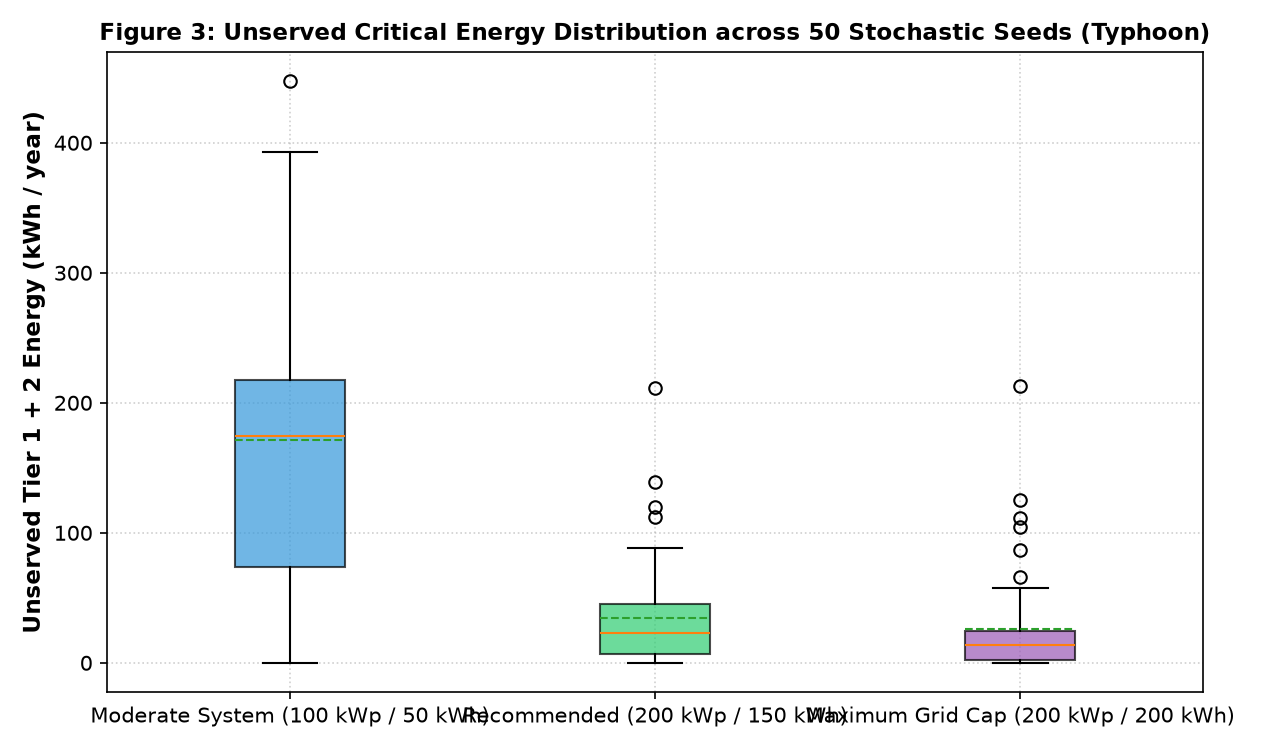
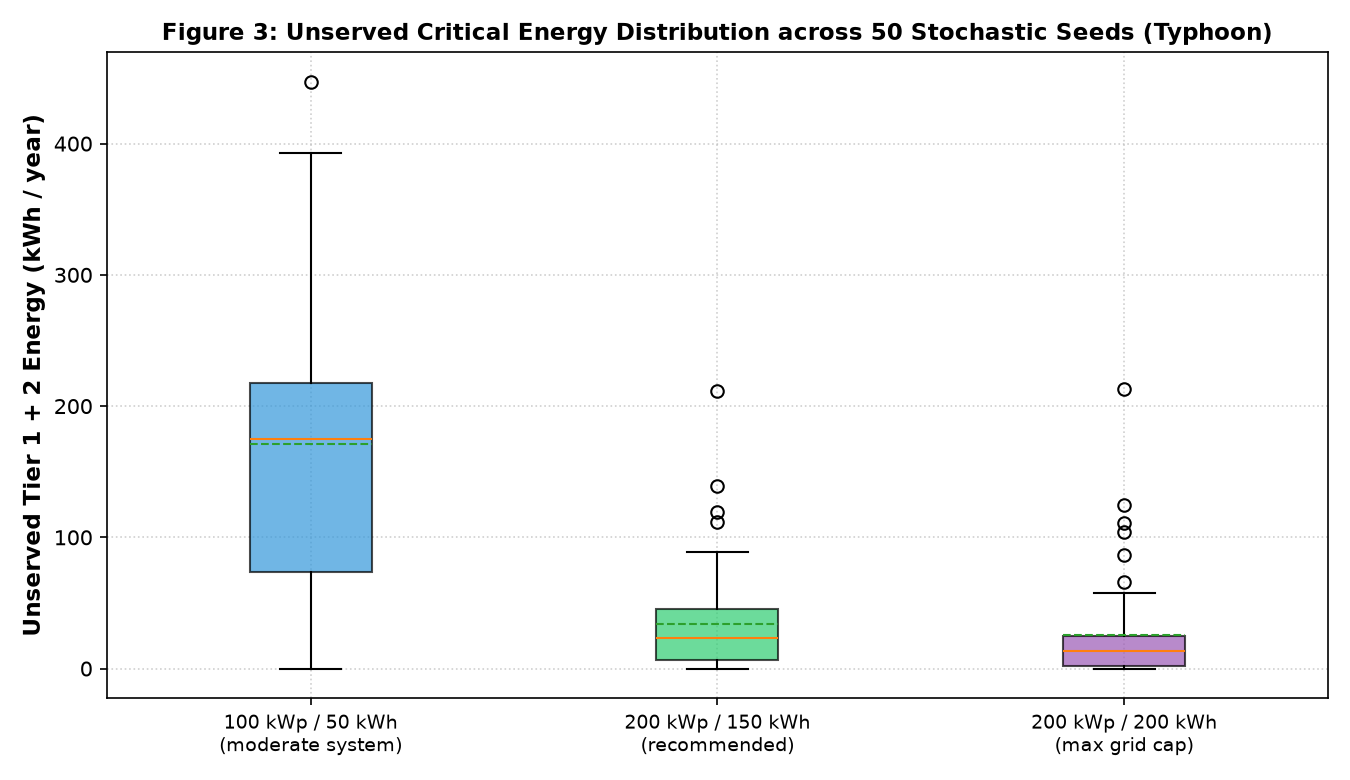
docs([DOC-004]): readable Figure 3, correct §5.2 CLI row, test-file count
Two-line x labels and a wider figure for Figure 3, regenerated from the
same 600 runs; no data change. Record cli.py as top-level in §5.2.
State the test count as 22 test modules plus tests/__init__.py in the
report and the listing generator, and regenerate both listings.

diff --git a/scripts/build_program_listing.py b/scripts/build_program_listing.py
@@ -141,7 +141,8 @@ def build_full(files: list[str], tests: list[str], index, counts) -> str:
             "script after any source change.",
             "",
             f"Source files: **{len(files)}** ({src_lines:,} lines). "
-            f"Test files are listed by index only: **{len(tests)}** ({test_lines:,} lines).",
+            f"Test modules are listed by index only: **{len(tests)}** "
+            f"(plus `tests/__init__.py`), {test_lines:,} lines.",
         ],
     )
     lines.extend(render_index_table(files, index, counts, "Contents"))
@@ -168,7 +169,8 @@ def build_core(files: list[str], tests: list[str], index, counts) -> str:
             "the integration engine, and the AHP/Pareto sizing pipeline.",
             "",
             f"Reproduced here: **{len(core)}** files ({core_lines:,} lines). "
-            f"Indexed only: **{len(rest_src)}** remaining source files and **{len(tests)}** test files.",
+            f"Indexed only: **{len(rest_src)}** remaining source files and **{len(tests)}** "
+            f"test modules (plus `tests/__init__.py`).",
         ],
     )
     lines.extend(render_index_table(core, index, counts, "Core modules included"))

diff --git a/src/ccis_sim/decision/plots.py b/src/ccis_sim/decision/plots.py
@@ -176,9 +176,9 @@ def plot_unserved_distribution(
 
     rec_sol, rec_bat = recommended_pair
     triplet = [
-        (100.0, 50.0, "Moderate System (100 kWp / 50 kWh)"),
-        (rec_sol, rec_bat, f"Recommended ({rec_sol:.0f} kWp / {rec_bat:.0f} kWh)"),
-        (200.0, 200.0, "Maximum Grid Cap (200 kWp / 200 kWh)"),
+        (100.0, 50.0, "100 kWp / 50 kWh\n(moderate system)"),
+        (rec_sol, rec_bat, f"{rec_sol:.0f} kWp / {rec_bat:.0f} kWh\n(recommended)"),
+        (200.0, 200.0, "200 kWp / 200 kWh\n(max grid cap)"),
     ]
 
     data_to_plot = []
@@ -192,7 +192,7 @@ def plot_unserved_distribution(
             data_to_plot.append(np.array([0.0]))
             labels.append(name)
 
-    fig, ax = plt.subplots(figsize=(8.5, 5), dpi=150)
+    fig, ax = plt.subplots(figsize=(9.0, 5.2), dpi=150)
     box = ax.boxplot(
         data_to_plot,
         tick_labels=labels,
@@ -200,7 +200,7 @@ def plot_unserved_distribution(
         showmeans=True,
         meanline=True,
     )
-
+    ax.tick_params(axis="x", labelsize=9)
     colors = ["#3498db", "#2ecc71", "#9b59b6"]
     for patch, color in zip(box["boxes"], colors):
         patch.set_facecolor(color)

diff --git a/docs/paper/CCIS-engineering-report.md b/docs/paper/CCIS-engineering-report.md
@@ -163,11 +163,12 @@ Python 3.14 with NumPy, pandas and SciPy: transparent, scriptable, easy to test.
 | `solar/` | Irradiance transposition, NOCT thermal derating, array scaling and inverter clipping |
 | `battery/` | Dispatch dynamics, reserve floors, idle losses |
 | `outage/` | Outage sampler with typhoon coupling, tiered shedding, unserved-energy tracker |
-| `integration/` | Engine, CLI, exporters, Monte Carlo scenario runner |
+| `integration/` | Engine, exporters, Monte Carlo scenario runner |
 | `validation/` | Audit, plausibility, sensitivity, hypothesis tests |
 | `decision/` | AHP, Pareto frontier, sizing rule, figures |
+| `cli.py` (top level, beside the packages) | Command-line entry point (`ccis-sim run`): argument parsing and summary printing |
 
-About 9,300 lines of source (42 files) and 6,000 lines of tests (23 files); the full per-file index is in Appendix C.
+About 9,300 lines of source (42 files) and 6,000 lines of tests (22 test modules plus `tests/__init__.py`); the full per-file index is in Appendix C.
 
 ### 5.3 Engine limitations that shape the results
 1. **The battery never charges from the grid.** With no PV, a battery discharges once and stays at its floor (about 0.8 cycles per year). Battery-only designs are therefore excluded ([D-38]) and no conclusion about grid-charged storage should be drawn.
@@ -310,7 +311,7 @@ The five figures below are tracked images in `results/figures/` and are referenc
 
 ![Figure 3: Distribution of unserved Tier 1+2 energy across 50 seeds for three sizings](../../results/figures/fig3_unserved_distribution.png)
 
-**Figure 3.** Box plots of annual unserved Tier 1+2 energy across 50 typhoon-regime seeds for three sizings: 100 kWp / 50 kWh, the recommended 200 kWp / 150 kWh, and 200 kWp / 200 kWh. The boxes show the interquartile range, the orange line the median, the dashed green line the mean, and the circles are outliers. The x-axis category labels overlap and are hard to read at page width; the three groups are, left to right, the order just listed.
+**Figure 3.** Box plots of annual unserved Tier 1+2 energy across 50 typhoon-regime seeds for three sizings, left to right on the x-axis: 100 kWp / 50 kWh (moderate system), the recommended 200 kWp / 150 kWh, and 200 kWp / 200 kWh (maximum grid cap). The boxes show the interquartile range, the orange line the median, the dashed green line the mean, and the circles are outliers.
 
 ![Figure 4: Pareto trade-off, cost index versus Tier 1+2 outage hours served, both demand cases](../../results/figures/fig4_pareto_scatter.png)
 
@@ -412,7 +413,7 @@ Simulation artifacts saved to: /tmp/tmp.Q3VZu5NzpW
 The listing is generated by `scripts/build_program_listing.py` (deterministic: sorted paths, no timestamps). Two versions are provided, because the instructor has not said whether the full source or a core selection is required:
 
 - **`docs/paper/program-listing.md`** — the **full listing**: all 42 files of `src/ccis_sim/` plus `scripts/run_decision_pipeline.py`, 43 files and 9,679 lines, about 389 KB. Tests are listed by path, length and purpose, not reproduced.
-- **`docs/paper/program-listing-core.md`** — the **core selection**: 15 files and 4,572 lines, about 198 KB, covering the domain models, equipment audit, occupancy, demand, solar, battery, outage, shedding, engine and the AHP/Pareto sizing pipeline; the remaining 28 source files and all 22 test files are listed by index only.
+- **`docs/paper/program-listing-core.md`** — the **core selection**: 15 files and 4,572 lines, about 198 KB, covering the domain models, equipment audit, occupancy, demand, solar, battery, outage, shedding, engine and the AHP/Pareto sizing pipeline; the remaining 28 source files and all 22 test modules (plus `tests/__init__.py`) are listed by index only.
 
 Appendix C gives the index of every file. Reproduce the results with:
 
@@ -464,7 +465,7 @@ Bottom-up demand, 2019 typhoon, N = 50 (selected rows; the full table is in `res
 
 Two generated listings are supplied (§10): `docs/paper/program-listing.md` (full, 43 source files, 9,679 lines) and `docs/paper/program-listing-core.md` (core selection, 15 files, 4,572 lines, plus an index of the rest).
 
-The complete per-file index, including every test file, is `results/program_listing_index.md` (65 entries: 42 source and 23 test files; largest files `core/verification.py` 919 lines, `outage/sampler.py` 510, `integration/engine.py` 490, `solar/irradiance.py` 429). One entry in that index is stale by three lines: `validation/hypothesis.py` is listed at 340 lines and the file on disk has 343; the generated listings use the on-disk count, so total source lines are 9,298 rather than the index's 9,295.
+The complete per-file index, including every test file, is `results/program_listing_index.md` (65 entries: 42 source files and 23 test-side files, the latter being 22 test modules plus `tests/__init__.py`; largest files `core/verification.py` 919 lines, `outage/sampler.py` 510, `integration/engine.py` 490, `solar/irradiance.py` 429). One entry in that index is stale by three lines: `validation/hypothesis.py` is listed at 340 lines and the file on disk has 343; the generated listings use the on-disk count, so total source lines are 9,298 rather than the index's 9,295.
 
 ## Appendix D. Known limitations and open items
 

diff --git a/docs/paper/program-listing.md b/docs/paper/program-listing.md
@@ -2,7 +2,7 @@
 
 Generated by `scripts/build_program_listing.py`. Do not edit by hand; re-run the script after any source change.
 
-Source files: **43** (9,679 lines). Test files are listed by index only: **22** (6,006 lines).
+Source files: **43** (9,679 lines). Test modules are listed by index only: **22** (plus `tests/__init__.py`), 6,006 lines.
 
 ## Contents
 
@@ -3194,9 +3194,9 @@ def plot_unserved_distribution(
 
     rec_sol, rec_bat = recommended_pair
     triplet = [
-        (100.0, 50.0, "Moderate System (100 kWp / 50 kWh)"),
-        (rec_sol, rec_bat, f"Recommended ({rec_sol:.0f} kWp / {rec_bat:.0f} kWh)"),
-        (200.0, 200.0, "Maximum Grid Cap (200 kWp / 200 kWh)"),
+        (100.0, 50.0, "100 kWp / 50 kWh\n(moderate system)"),
+        (rec_sol, rec_bat, f"{rec_sol:.0f} kWp / {rec_bat:.0f} kWh\n(recommended)"),
+        (200.0, 200.0, "200 kWp / 200 kWh\n(max grid cap)"),
     ]
 
     data_to_plot = []
@@ -3210,7 +3210,7 @@ def plot_unserved_distribution(
             data_to_plot.append(np.array([0.0]))
             labels.append(name)
 
-    fig, ax = plt.subplots(figsize=(8.5, 5), dpi=150)
+    fig, ax = plt.subplots(figsize=(9.0, 5.2), dpi=150)
     box = ax.boxplot(
         data_to_plot,
         tick_labels=labels,
@@ -3218,7 +3218,7 @@ def plot_unserved_distribution(
         showmeans=True,
         meanline=True,
     )
-
+    ax.tick_params(axis="x", labelsize=9)
     colors = ["#3498db", "#2ecc71", "#9b59b6"]
     for patch, color in zip(box["boxes"], colors):
         patch.set_facecolor(color)

diff --git a/docs/tasks/status.md b/docs/tasks/status.md
@@ -158,3 +158,4 @@ Status: **in-progress**
 | DEC-003.3   | Compile comprehensive engineering report markdown                   | `done` | [CCIS-engineering-report.md](../paper/CCIS-engineering-report.md) [report](../reports/DEC-003.3-claude-code-engineering-report.md) |
 | **DOC-FIX-001** | **Report Gap Closure, Hygiene, Hypothesis Tests & Heat-Effect Numbers** | `done` | [DOC-FIX-001-claude-code-closeout.md](../reports/DOC-FIX-001-claude-code-closeout.md) [D-40] |
 | **DOC-003** | **Complete engineering report against course Project Outline** | `done` | [DOC-003-claude-code-report-completion.md](../reports/DOC-003-claude-code-report-completion.md) [D-41] Title block, §3.4 diagrams, §4.3–4.4 data handling, §6.6 SME status, §7.5 figures 1–6, §10 listings, Appendix E |
+| **DOC-004** | **Report follow-ups: readable Figure 3, §5.2 CLI row, test-file count** | `done` | [DOC-004-claude-code-report-followups.md](../reports/DOC-004-claude-code-report-followups.md) Figure 3 labels, `cli.py` row, "22 test modules plus `tests/__init__.py`" |

diff --git a/docs/paper/program-listing-core.md b/docs/paper/program-listing-core.md
@@ -4,7 +4,7 @@ Generated by `scripts/build_program_listing.py`. Do not edit by hand; re-run the
 
 Core selection: the simulation loop and each model that feeds a reported result — domain models, equipment audit, occupancy, non-cooling and cooling demand, solar irradiance and array, battery dynamics and reserve, outage sampler and shedding, the integration engine, and the AHP/Pareto sizing pipeline.
 
-Reproduced here: **15** files (4,572 lines). Indexed only: **28** remaining source files and **22** test files.
+Reproduced here: **15** files (4,572 lines). Indexed only: **28** remaining source files and **22** test modules (plus `tests/__init__.py`).
 
 ## Core modules included
 
